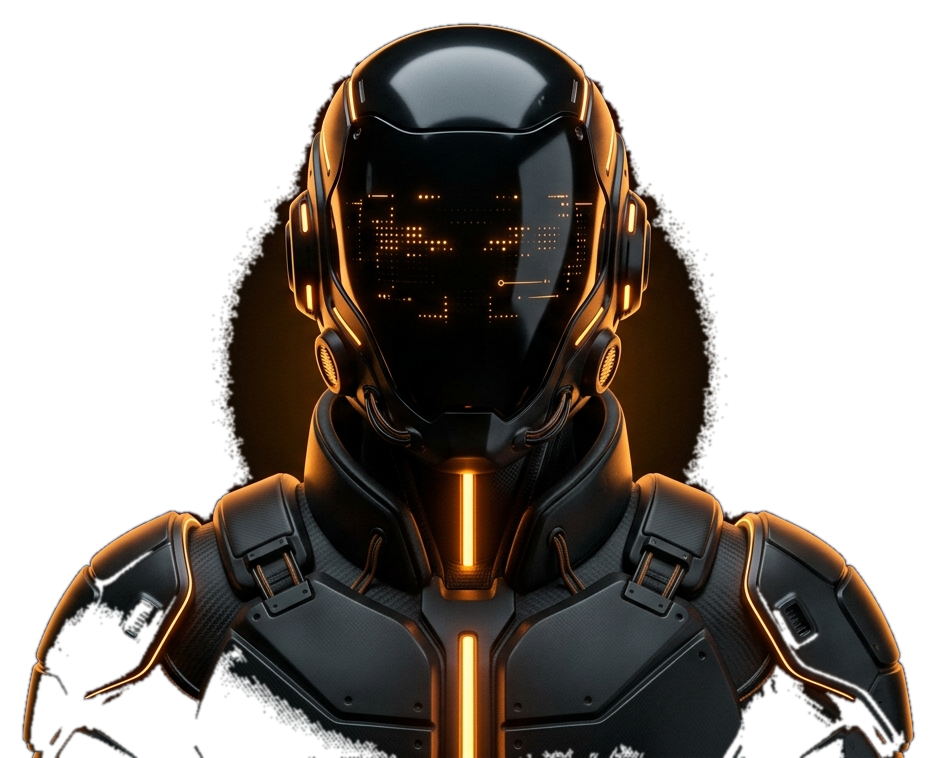
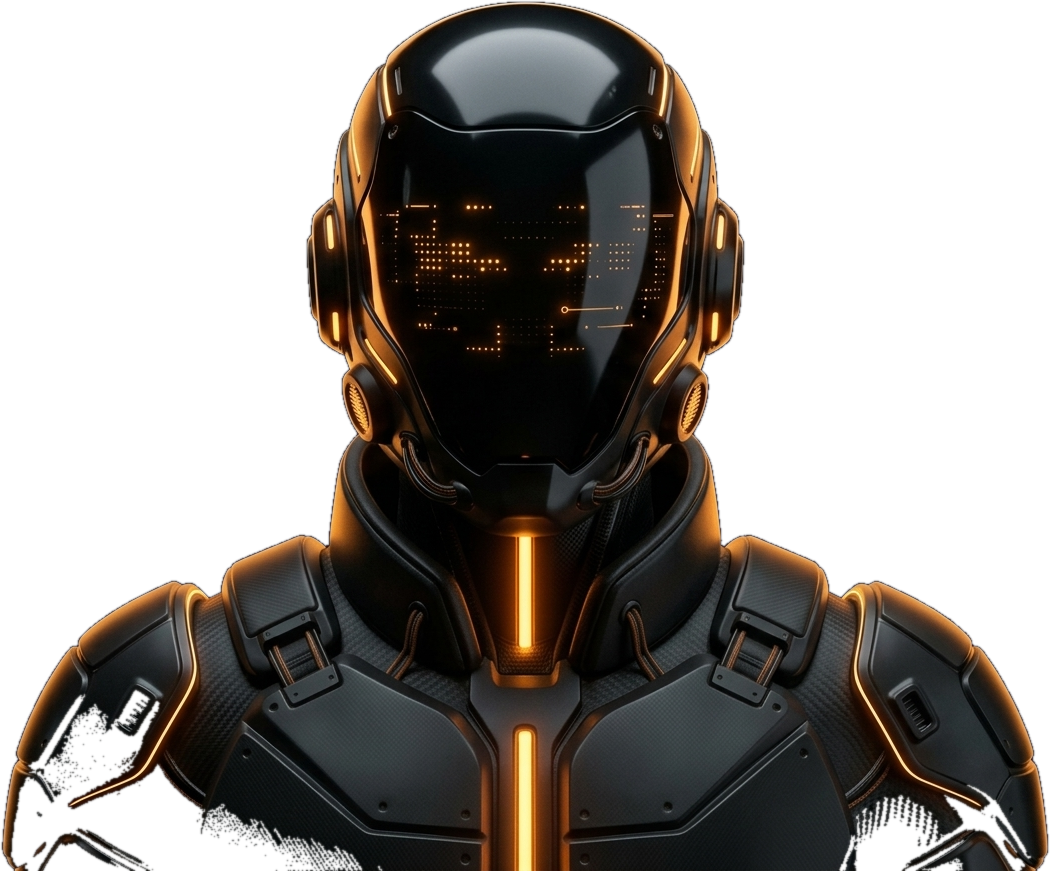
fix(hero): remove dark halo gap around cyborg, lift text and robot higher, and add minimalist amber outer glow pulse

Changed region(s): [[0.0, 0.0, 1.0, 1.0], [0.4338, 0.3641, 0.4957, 0.4248], [0.5577, 0.6675, 0.5887, 0.6979]]

diff --git a/components/Hero.tsx b/components/Hero.tsx
@@ -26,55 +26,53 @@ export default function Hero() {
   }, [isIntroOpen]);
 
   return (
-    <section className="relative w-full min-h-screen flex flex-col justify-between pt-20 sm:pt-24 pb-8 overflow-hidden bg-[#030303] text-white select-none">
+    <section className="relative w-full min-h-screen flex flex-col justify-between pt-10 sm:pt-14 lg:pt-16 pb-8 overflow-hidden bg-[#030303] text-white select-none">
       
       {/* 1. Ambient Background Effects & Amber Halo */}
       <div className="absolute inset-0 pointer-events-none overflow-hidden">
         {/* Subtle orange radial core glow */}
-        <div className="absolute top-[38%] left-1/2 -translate-x-1/2 -translate-y-1/2 w-[580px] h-[580px] rounded-full bg-amber-500/[0.04] blur-[140px]" />
+        <div className="absolute top-[32%] sm:top-[30%] lg:top-[28%] left-1/2 -translate-x-1/2 -translate-y-1/2 w-[580px] h-[580px] rounded-full bg-amber-500/[0.04] blur-[140px]" />
         
         {/* Fine amber halo ring centered behind head */}
-        <div className="absolute top-[38%] left-1/2 -translate-x-1/2 -translate-y-1/2 w-[340px] h-[340px] sm:w-[480px] sm:h-[480px] lg:w-[580px] lg:h-[580px] rounded-full border border-amber-500/25 shadow-[0_0_60px_rgba(245,158,11,0.06)]" />
+        <div className="absolute top-[32%] sm:top-[30%] lg:top-[28%] left-1/2 -translate-x-1/2 -translate-y-1/2 w-[340px] h-[340px] sm:w-[460px] sm:h-[460px] lg:w-[540px] lg:h-[540px] rounded-full border border-amber-500/25 shadow-[0_0_60px_rgba(245,158,11,0.06)]" />
 
         {/* Subtle top & bottom gradients */}
         <div className="absolute inset-0 bg-gradient-to-b from-black/60 via-transparent to-black" />
       </div>
 
-
-
-      {/* 3. Center Section: 3D Typography + 3D Cyborg Guardian */}
-      <div className="relative flex-1 flex items-center justify-center w-full min-h-[440px] sm:min-h-[520px] lg:min-h-[600px] my-auto">
+      {/* 2. Center Section: 3D Typography + 3D Cyborg Guardian */}
+      <div className="relative flex-1 flex items-center justify-center w-full min-h-[420px] sm:min-h-[500px] lg:min-h-[560px] my-auto">
         
         {/* Layer A (Behind Cyborg): Giant Typography */}
-        <div className="absolute inset-0 flex flex-col items-center justify-center pointer-events-none select-none z-10 text-center px-4 -mt-6 sm:-mt-10 lg:-mt-12">
+        <div className="absolute inset-0 flex flex-col items-center justify-center pointer-events-none select-none z-10 text-center px-4 -mt-16 sm:-mt-24 lg:-mt-28">
           <h1 className="flex flex-col items-center w-full">
-            <span className="text-[54px] sm:text-[84px] md:text-[112px] lg:text-[142px] xl:text-[166px] font-extrabold tracking-[-0.04em] text-white/95 leading-[0.88] lowercase font-sans drop-shadow-[0_4px_30px_rgba(0,0,0,0.95)]">
+            <span className="text-[58px] sm:text-[90px] md:text-[120px] lg:text-[148px] xl:text-[172px] font-extrabold tracking-[-0.04em] text-white/95 leading-[0.88] lowercase font-sans drop-shadow-[0_4px_30px_rgba(0,0,0,0.95)]">
               — the future —
             </span>
-            <span className="text-[46px] sm:text-[72px] md:text-[96px] lg:text-[124px] xl:text-[146px] font-extrabold tracking-[-0.04em] text-white/90 leading-[0.88] lowercase font-sans mt-0.5 sm:mt-1 drop-shadow-[0_4px_30px_rgba(0,0,0,0.95)]">
+            <span className="text-[50px] sm:text-[76px] md:text-[104px] lg:text-[130px] xl:text-[152px] font-extrabold tracking-[-0.04em] text-white/90 leading-[0.88] lowercase font-sans mt-0.5 sm:mt-1 drop-shadow-[0_4px_30px_rgba(0,0,0,0.95)]">
               of thinking
             </span>
           </h1>
         </div>
 
-        {/* Layer B (In Front of Typography): Centered 3D Cyborg Guardian */}
-        <div className="relative z-20 w-full flex justify-center items-end pointer-events-none mt-4 sm:mt-8">
-          <div className="relative w-[320px] sm:w-[480px] md:w-[600px] lg:w-[740px] xl:w-[840px] aspect-[936/758] mx-auto">
+        {/* Layer B (In Front of Typography): Centered 3D Cyborg Guardian with Amber Edge Glow */}
+        <div className="relative z-20 w-full flex justify-center items-end pointer-events-none -mt-4 sm:-mt-8 lg:-mt-10">
+          <div className="relative w-[290px] sm:w-[420px] md:w-[540px] lg:w-[660px] xl:w-[740px] aspect-[1050/871] mx-auto animate-cyborg-glow">
             <Image
               src="/images/hero-cyborg-cutout.png"
               alt="Cyber Cell SATI Cyber Guardian"
               fill
               priority
-              className="object-contain object-bottom drop-shadow-[0_20px_60px_rgba(0,0,0,0.98)]"
-              sizes="(max-width: 768px) 100vw, 840px"
+              className="object-contain object-bottom drop-shadow-[0_20px_50px_rgba(0,0,0,0.95)]"
+              sizes="(max-width: 768px) 100vw, 740px"
             />
           </div>
         </div>
 
       </div>
 
-      {/* 4. Foreground Content Grid (Left Story/Actions & Right Stats/Avatar) */}
-      <div className="relative z-30 max-w-7xl mx-auto px-4 sm:px-6 lg:px-8 w-full pt-2 pb-6">
+      {/* 3. Foreground Content Grid (Left Story/Actions & Right Stats/Avatar) */}
+      <div className="relative z-30 max-w-7xl mx-auto px-4 sm:px-6 lg:px-8 w-full pt-1 pb-6">
         <div className="grid grid-cols-1 lg:grid-cols-12 gap-8 items-end justify-between">
           
           {/* Left Column: Context, Tags, and CTAs */}
@@ -174,7 +172,7 @@ export default function Hero() {
         </div>
       </div>
 
-      {/* 5. Bottom Partner / Community Section */}
+      {/* 4. Bottom Partner / Community Section */}
       <div className="relative z-30 max-w-7xl mx-auto px-4 sm:px-6 lg:px-8 w-full pt-4 border-t border-white/[0.05]">
         <div className="flex flex-col items-center gap-4">
           <span className="text-[10px] font-mono tracking-[0.28em] text-slate-500 uppercase select-none">
@@ -227,7 +225,7 @@ export default function Hero() {
         </div>
       </div>
 
-      {/* 6. Interactive "Watch Intro" Video Modal */}
+      {/* 5. Interactive "Watch Intro" Video Modal */}
       {isIntroOpen && (
         <div 
           className="fixed inset-0 z-50 flex items-center justify-center p-4 sm:p-6 bg-black/85 backdrop-blur-xl animate-in fade-in duration-200"

diff --git a/app/globals.css b/app/globals.css
@@ -93,3 +93,17 @@ body {
 .text-cyan-accent {
   color: #38bdf8;
 }
+
+/* Minimalist amber glowing rim light for hero cyborg */
+@keyframes cyborgGlowPulse {
+  0%, 100% {
+    filter: drop-shadow(0 0 16px rgba(245, 158, 11, 0.42)) drop-shadow(0 0 36px rgba(245, 158, 11, 0.18));
+  }
+  50% {
+    filter: drop-shadow(0 0 28px rgba(245, 158, 11, 0.65)) drop-shadow(0 0 60px rgba(245, 158, 11, 0.3));
+  }
+}
+
+.animate-cyborg-glow {
+  animation: cyborgGlowPulse 4.5s ease-in-out infinite;
+}
